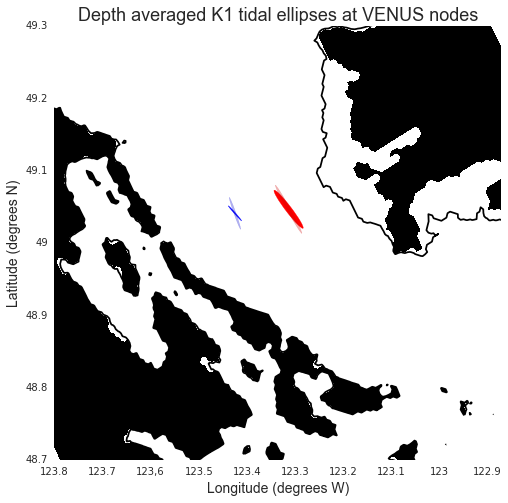
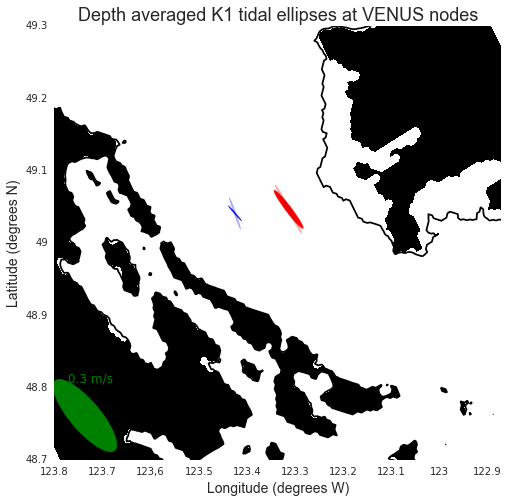
add scale

Changed region(s): [[0.0886, 0.7455, 0.2362, 0.8946]]

diff --git a/tidalcurrents/tidal_current_comparison.rst b/tidalcurrents/tidal_current_comparison.rst
@@ -74,7 +74,7 @@ Comparison of the K1 harmonic constituent
 | ADCP    | 0.17       | -0.011     | 122             |
 +---------+------------+------------+-----------------+
 
-* Scale = 100
+
 .. _node_comparison:
 
 .. figure:: depavnodecompK1.png
